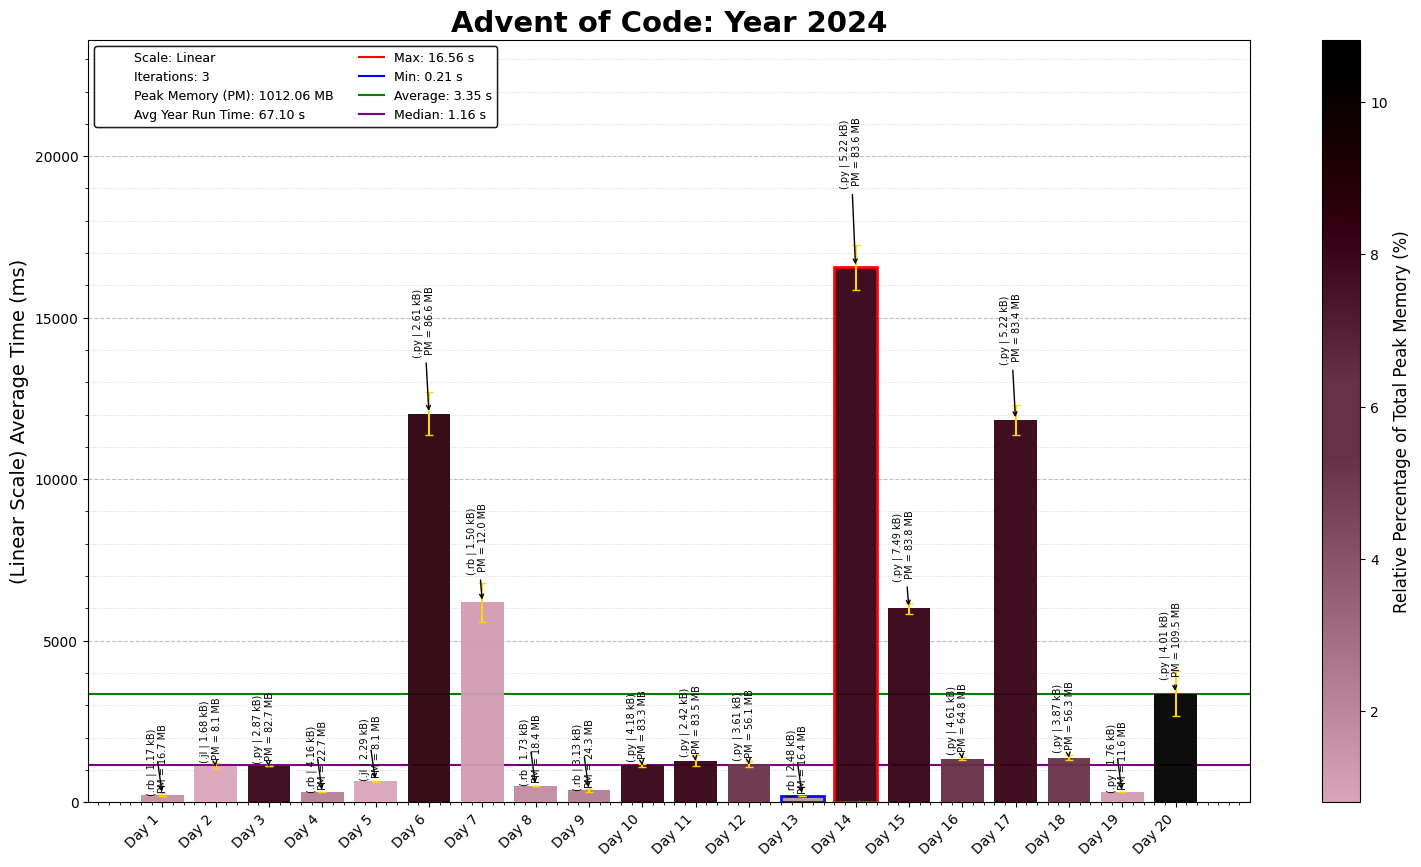
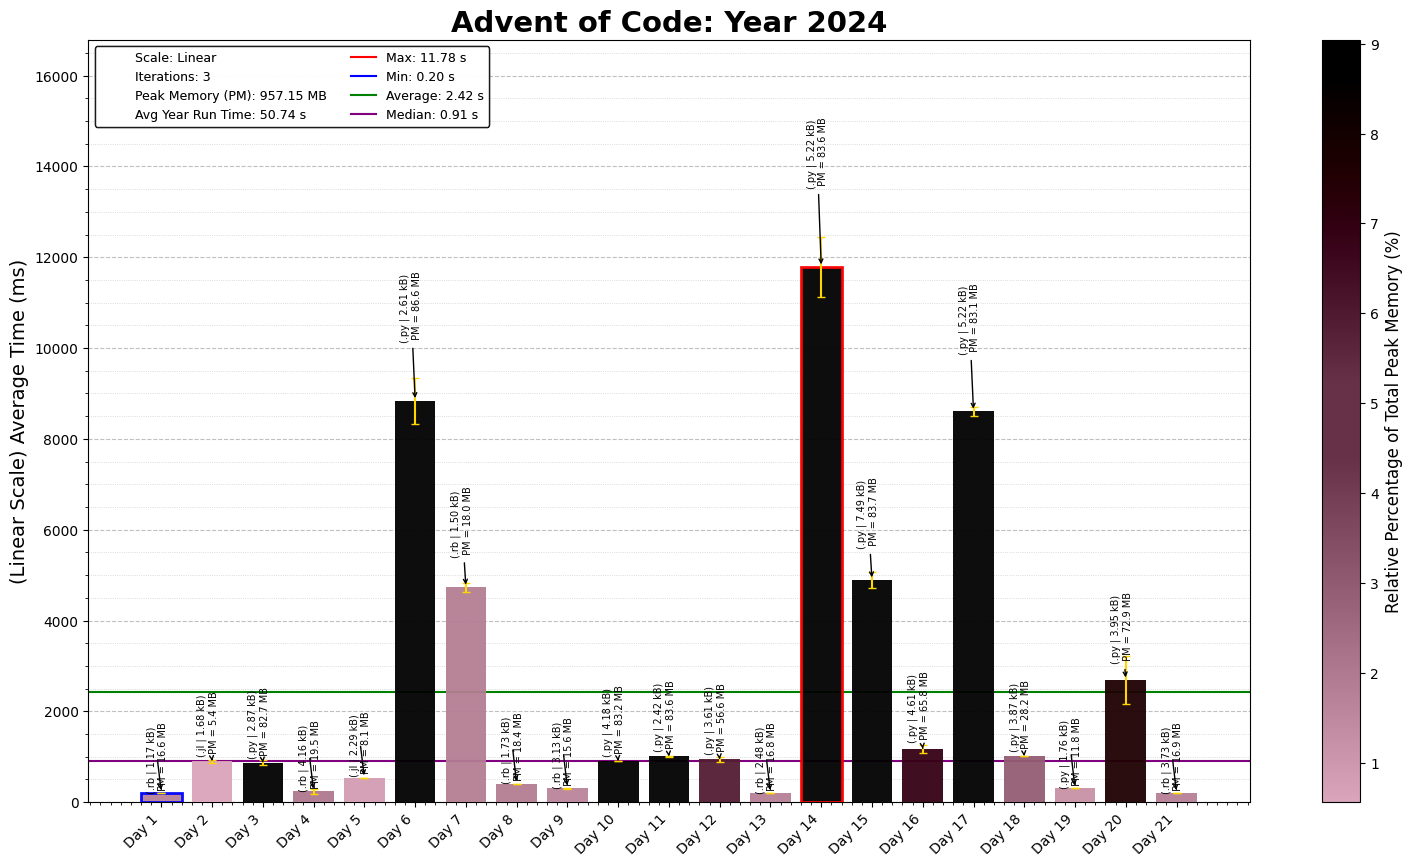
2024 Day 21

diff --git a/2024/21/Alt2024Day21.py b/2024/21/Alt2024Day21.py
@@ -1,0 +1,155 @@
+"""Advent of Code - Day 21, Year 2024
+Solution Started: Dec 21, 2024
+Puzzle Link: https://adventofcode.com/2024/day/21
+Solution by: abbasmoosajee07
+Brief: [Using robots for keypads]
+"""
+
+#!/usr/bin/env python3
+
+import os, re, copy,time
+import numpy as np
+import pandas as pd
+import matplotlib.pyplot as plt
+from collections import deque
+from typing import List, Dict, Tuple
+
+start_time = time.time()
+# Load the input data from the specified file path
+D21_file = "Day21_input.txt"
+D21_file_path = os.path.join(os.path.dirname(os.path.abspath(__file__)), D21_file)
+
+# Read and sort input data into a grid
+with open(D21_file_path) as file:
+    input_data = file.read().strip().split('\n')
+
+def sanitize_paths(paths: List[str], start_pos: Tuple[int, int], is_numeric: bool) -> List[str]:
+    """Sanitizes paths by removing those that pass through excluded positions."""
+    excluded_position = NUMERIC_POS['X'] if is_numeric else DIRECTIONAL_POS['X']
+    DIRECTIONAL_KEYS: Dict[str, Tuple[int, int]] = {'^': (-1, 0), 'v': (1, 0), '>': (0, 1), '<': (0, -1)}  # Up, Down, Right, Left
+    i = 0
+    while i < len(paths):
+        current_pos = list(start_pos)
+        for direction in paths[i]:
+            dr, dc = DIRECTIONAL_KEYS[direction]
+            current_pos[0] += dr
+            current_pos[1] += dc
+
+            if tuple(current_pos) == excluded_position:
+                paths.pop(i)
+                i -= 1
+                break
+        i += 1
+
+    return paths
+
+def get_shortest_paths(start_pos: Tuple[int, int], end_pos: Tuple[int, int], is_numeric: bool) -> List[str]:
+    """Generates shortest paths between start and end positions."""
+    vertical_move = "^" if end_pos[0] - start_pos[0] < 0 else "v"
+    vertical_distance = abs(end_pos[0] - start_pos[0])
+    horizontal_move = "<" if end_pos[1] - start_pos[1] < 0 else ">"
+    horizontal_distance = abs(end_pos[1] - start_pos[1])
+
+    raw_paths = [
+        vertical_move * vertical_distance + horizontal_move * horizontal_distance,
+        horizontal_move * horizontal_distance + vertical_move * vertical_distance
+    ]
+
+    return sanitize_paths(list(set(raw_paths)), start_pos, is_numeric)
+
+def solve_numeric_keypad(number_sequence: str) -> List[List[str]]:
+    """Generates sequences to navigate a numeric keypad."""
+    current_pos: Tuple[int, int] = NUMERIC_POS["A"]
+    sequence: List[List[str]] = []
+
+    for digit in number_sequence:
+        target_pos = NUMERIC_POS[digit]
+        paths = get_shortest_paths(current_pos, target_pos, is_numeric=True)
+        current_pos = target_pos
+        sequence.append(paths)
+
+    sequence_parts: List[List[str]] = []
+    for part in sequence:
+        sequence_parts.append(["".join(path) + "A" for path in part])
+
+    return sequence_parts
+
+def solve_directional_keypad(direction_sequence: str) -> List[List[str]]:
+    """Generates sequences to navigate a directional keypad."""
+    current_pos: Tuple[int, int] = DIRECTIONAL_POS["A"]
+    sequence: List[List[str]] = []
+
+    for direction in direction_sequence:
+        target_pos = DIRECTIONAL_POS[direction]
+        paths = get_shortest_paths(current_pos, target_pos, is_numeric=False)
+        current_pos = target_pos
+        sequence.append(paths)
+
+    sequence_parts: List[List[str]] = []
+    for part in sequence:
+        sequence_parts.append(["".join(path) + "A" for path in part])
+
+    return sequence_parts
+
+def calculate_min_cost(sequence: str, depth: int) -> int:
+    """Calculates the minimum cost to type a sequence with a given depth."""
+    if depth == 0:
+        return len(sequence)
+
+    if (sequence, depth) in memory:
+        return memory[(sequence, depth)]
+
+    sub_sequences = solve_directional_keypad(sequence)
+    cost = sum(
+        min([calculate_min_cost(sub_seq, depth - 1) for sub_seq in part]) for part in sub_sequences
+    )
+
+    memory[(sequence, depth)] = cost
+    return cost
+
+def calculate_complexity(keycodes: List[str], depth: int) -> int:
+    """Solves the puzzle for a given depth level."""
+    total_cost = 0
+    for key in keycodes:
+        numeric_sequence = solve_numeric_keypad(key)
+        level_cost = sum(
+            min(calculate_min_cost(sequence, depth) for sequence in part)
+            for part in numeric_sequence
+        )
+        total_cost += int(key[:-1]) * level_cost
+
+    return total_cost
+
+def parse_keypads(keypad: List[List[str]]) -> Dict[str, Tuple[int, int]]:
+    """Parses a keypad layout into a dictionary of positions."""
+    positions = {}
+    for r, row in enumerate(keypad):
+        for c, key in enumerate(row):
+            positions[key] = (r, c)
+    return positions
+
+# Global variables
+global memory, NUMERICAL_KEYPAD, DIRECTION_KEYPAD, NUMERIC_POS, DIRECTIONAL_POS
+memory: Dict[Tuple[str, int], int] = {}
+NUMERICAL_KEYPAD: List[List[str]] = [
+    ['7', '8', '9'],
+    ['4', '5', '6'],
+    ['1', '2', '3'],
+    ['X', '0', 'A']
+]
+
+DIRECTION_KEYPAD: List[List[str]] = [
+    ['X', '^', 'A'],
+    ['<', 'v', '>']
+]
+
+NUMERIC_POS: Dict[str, Tuple[int, int]] = parse_keypads(NUMERICAL_KEYPAD)
+DIRECTIONAL_POS: Dict[str, Tuple[int, int]] = parse_keypads(DIRECTION_KEYPAD)
+
+# Example usage
+complex_cost_p1: int = calculate_complexity(input_data, 2)
+print("Part 1:", complex_cost_p1)
+
+complex_cost_p2: int = calculate_complexity(input_data, 25)
+print("Part 2:", complex_cost_p2)
+print(time.time()-start_time)

diff --git a/2024/21/2024Day21.rb b/2024/21/2024Day21.rb
@@ -1,0 +1,156 @@
+# Advent of Code - Day 21, Year 2024
+# Solution Started: Dec 21, 2024
+# Puzzle Link: https://adventofcode.com/2024/day/21
+# Solution by: abbasmoosajee07
+# Brief: [Using robots for keypads]
+
+require 'set'
+
+# Load the input data from the specified file path
+D21_FILE = "Day21_input.txt"
+D21_FILE_PATH = File.join(File.dirname(__FILE__), D21_FILE)
+
+# Read and sort input data into a grid
+input_data = File.read(D21_FILE_PATH).strip.split("\n")
+
+def sanitize_paths(paths, start_pos, is_numeric)
+  excluded_position = is_numeric ? NUMERIC_POS['X'] : DIRECTIONAL_POS['X']
+  sanitized_paths = []
+
+  paths.each do |path|
+    current_pos = start_pos.dup
+    valid_path = true
+
+    path.each_char do |direction|
+      dr, dc = DIRECTIONAL_KEYS[direction]
+      current_pos[0] += dr
+      current_pos[1] += dc
+
+      if current_pos == excluded_position
+        valid_path = false
+        break
+      end
+    end
+
+    sanitized_paths << path if valid_path
+  end
+
+  sanitized_paths
+end
+
+def get_shortest_paths(start_pos, end_pos, is_numeric)
+  vertical_move = end_pos[0] < start_pos[0] ? '^' : 'v'
+  vertical_distance = (end_pos[0] - start_pos[0]).abs
+  horizontal_move = end_pos[1] < start_pos[1] ? '<' : '>'
+  horizontal_distance = (end_pos[1] - start_pos[1]).abs
+
+  raw_paths = [
+    vertical_move * vertical_distance + horizontal_move * horizontal_distance,
+    horizontal_move * horizontal_distance + vertical_move * vertical_distance
+  ]
+
+  sanitize_paths(raw_paths.uniq, start_pos, is_numeric)
+end
+
+def solve_numeric_keypad(number_sequence)
+  current_pos = NUMERIC_POS['A']
+  sequence = []
+
+  number_sequence.each_char do |digit|
+    target_pos = NUMERIC_POS[digit]
+    paths = get_shortest_paths(current_pos, target_pos, true)
+    current_pos = target_pos
+    sequence << paths
+  end
+
+  sequence.map do |part|
+    part.map { |path| path + 'A' }
+  end
+end
+
+def solve_directional_keypad(direction_sequence)
+  current_pos = DIRECTIONAL_POS['A']
+  sequence = []
+
+  direction_sequence.each_char do |direction|
+    target_pos = DIRECTIONAL_POS[direction]
+    paths = get_shortest_paths(current_pos, target_pos, false)
+    current_pos = target_pos
+    sequence << paths
+  end
+
+  sequence.map do |part|
+    part.map { |path| path + 'A' }
+  end
+end
+
+def calculate_min_cost(sequence, depth)
+  return sequence.length if depth.zero?
+
+  @memory ||= {}
+  return @memory[[sequence, depth]] if @memory.key?([sequence, depth])
+
+  sub_sequences = solve_directional_keypad(sequence)
+  cost = sub_sequences.sum do |part|
+    part.map { |sub_seq| calculate_min_cost(sub_seq, depth - 1) }.min
+  end
+
+  @memory[[sequence, depth]] = cost
+  cost
+end
+
+def calculate_complexity(keycodes, depth)
+  total_cost = 0
+
+  keycodes.each do |key|
+    numeric_sequence = solve_numeric_keypad(key)
+    level_cost = numeric_sequence.sum do |part|
+      part.map { |sequence| calculate_min_cost(sequence, depth) }.min
+    end
+
+    total_cost += key[0..-2].to_i * level_cost
+  end
+
+  total_cost
+end
+
+def parse_keypads(keypad)
+  positions = {}
+
+  keypad.each_with_index do |row, r|
+    row.each_with_index do |key, c|
+      positions[key] = [r, c]
+    end
+  end
+
+  positions
+end
+
+# Global variables
+DIRECTIONAL_KEYS = {
+  '^' => [-1, 0],
+  'v' => [1, 0],
+  '>' => [0, 1],
+  '<' => [0, -1]
+}.freeze
+
+NUMERICAL_KEYPAD = [
+  %w[7 8 9],
+  %w[4 5 6],
+  %w[1 2 3],
+  %w[X 0 A]
+].freeze
+
+DIRECTION_KEYPAD = [
+  %w[X ^ A],
+  %w[< v >]
+].freeze
+
+NUMERIC_POS = parse_keypads(NUMERICAL_KEYPAD)
+DIRECTIONAL_POS = parse_keypads(DIRECTION_KEYPAD)
+
+complex_cost_p1 = calculate_complexity(input_data, 2)
+puts "Part 1: #{complex_cost_p1}"
+
+complex_cost_p2 = calculate_complexity(input_data, 25)
+puts "Part 2: #{complex_cost_p2}"

diff --git a/2024/README_2024.md b/2024/README_2024.md
@@ -24,3 +24,4 @@ This repository contains coding solutions for the 2024 Advent of Code. Its the f
 18. **Day 18- RAM Run**: *Python* | Path finder in a 2D grid, using BFS algorithm. Added a binary search to improve speed instead of initial brute force, resulting in a 8x speed up.
 19. **Day 19- Linen Layout**: *Python* | Building words in using a group of blocks, finished in python cos it was easy.
 20. **Day 20- Race Condition**: *Python* | Almost an inverse of Day 18, where I brute forced a solution for Part 1:, by removing individual walls, which worked but took almost 5 mins so switched approaches. Switching to the manhattan approach between start and end cheats, resulted in a 10x speed up. Adding the KDT function for iterating through times, further sped it up by 10x, for a 100x speed up overall.
+21. **Day 21- Keypad Conundrum**: *Ruby* | While orignally I tried using a BFS to find path from each key to next, it became way tto memory intensive for the depths required in part 2, and switched to a more tailored algorithm focused on the absolute difference between two points
